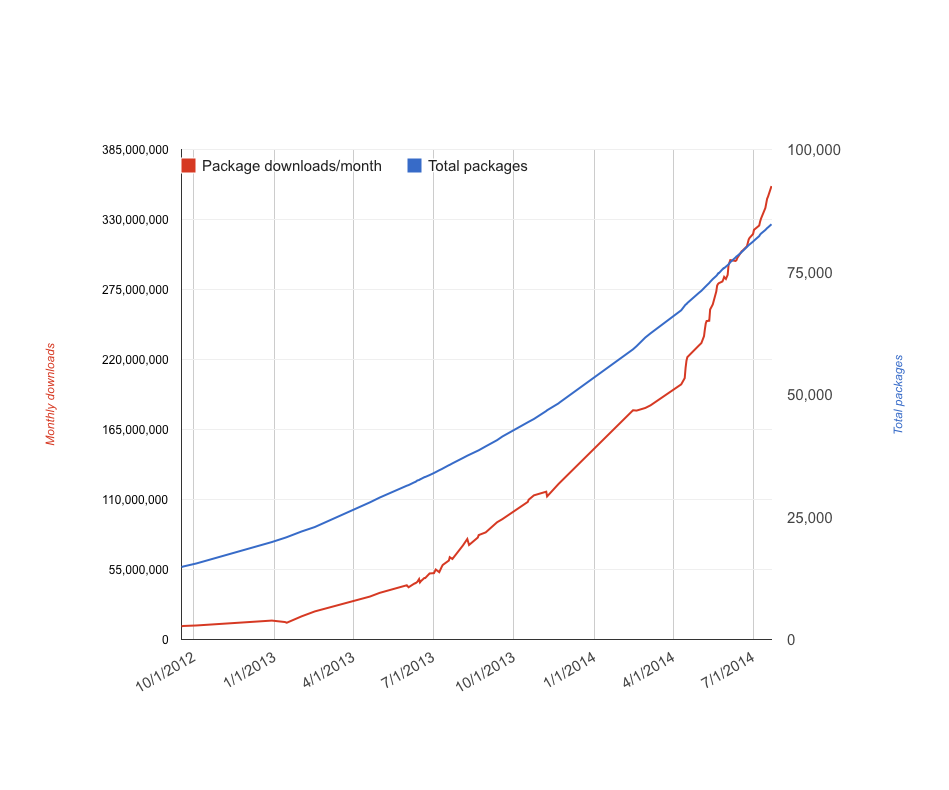
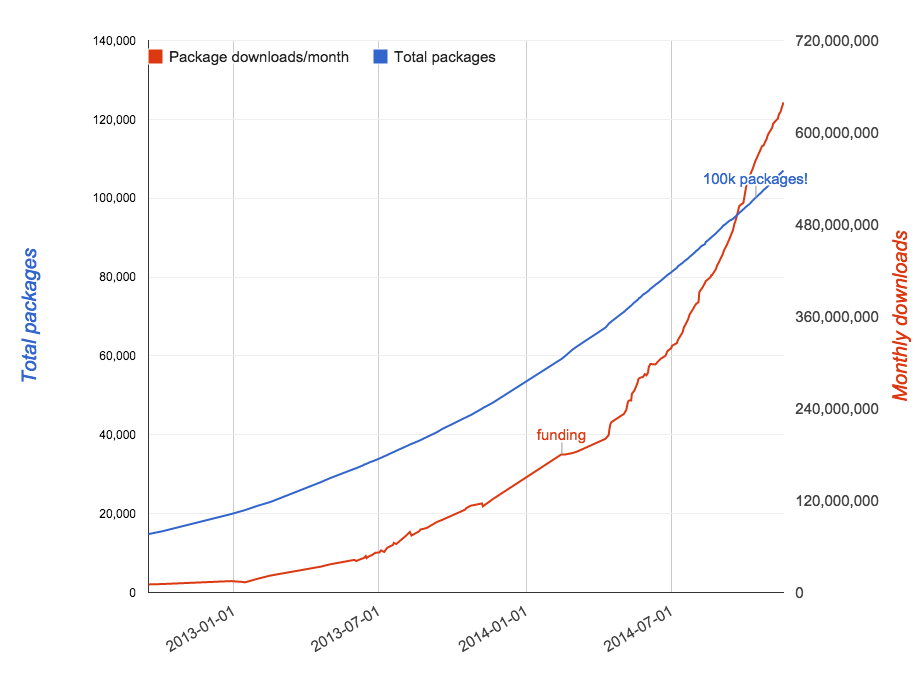
Current slide deck, probably talk-able.

diff --git a/scaling-registry.md b/scaling-registry.md
@@ -12,13 +12,15 @@
 
 ---
 
-Why scaling the registry matters to me.
-
----
-
 # [fit] What we did
 # [fit] lessons learned
 # [fit] generalizations
+
+---
+
+![](assets/I_enjoy_learning.png)
+
+^ Why scaling the registry matters to me. Everything we talk about here today depends on npm working.
 
 ---
 
@@ -30,6 +32,30 @@ Why scaling the registry matters to me.
 
 ---
 
+![fit](assets/npm_monthly_dls.png)
+
+^ What was the scaling challenge? Here's the chart of monthly downloads from 2013 on.
+
+---
+
+# [fit] January 2013
+# [fit] 20K packages
+# [fit] .5 million dls/day
+
+---
+
+# [fit] January 2014
+# [fit] 8 million dls/day
+# [fit] 60K packages
+
+---
+
+# [fit] Nov 2014
+# [fit] peak 28 million dls/day
+# [fit] > 100K packages
+
+---
+
 # [fit] side project
 # [fit] 100% couchdb
 # [fit] donated hosting
@@ -37,7 +63,7 @@ Why scaling the registry matters to me.
 
 ![15%, left](assets/npm-logo-white-trans.png)
 
-^ starting point: couch app with 100% of the code in couchdb views; 8000 lines of javascript; hosted by IrisCouch for free
+^ starting point: couch app with 100% of the code in couchdb views; 8000 lines of javascript; hosted by IrisCouch for free. couch exposed directly.
 
 ---
 
@@ -47,12 +73,11 @@ Why scaling the registry matters to me.
 
 ^ Benign neglect caught up. This is when Nodejitsu ran the "scale npm" fundraiser. Your money went to keeping it hosted at all during this time.
 
-
 ---
 
 # [fit] Put a cache on it
 
-^ Nov 2013 it stabilized because Fastly's CDN was put in front. We now cache aggressively. Geolocation makes it much faster for you all here in Europe-- mirrors aren't needed any more. Internet secret is that everything is fast because it's served from memory.
+^ Nov 2013 it stabilized Fastly's CDN. We now cache aggressively. Geolocation makes it much faster for you all here in Europe-- mirrors aren't needed any more.
 
 ---
 
@@ -63,19 +88,29 @@ Why scaling the registry matters to me.
 
 ---
 
-# ![inline](assets/npm.png) February 2014
+![fit](assets/arch_jan_2014.png)
 
-* company founded & funded
-* 100% hosted on Joyent
-* several couchdbs load-balanced by Fastly
-* hand-built CouchDB + Spidermonkey
-* automation by bash
-* Twitter tells us when we're down
+^ January 2014. This was more or less holding up under the load, though there were still outages with absolutely no visibility into why.
 
 ---
 
-# [fit] let's put out
-# [fit] the fires
+# [fit] ![inline](assets/npm.png) February 2014
+# [fit] company founded
+
+^ The problem was going to take money & dedicated engineering to solve.
+
+---
+
+# [fit] hosted on Joyent/SmartOS
+# [fit] hand-built CouchDB + Spidermonkey
+# [fit] bash scripts to deploy
+
+^ Everything was hand-built. 10 special snowflake servers.
+
+---
+
+# [fit] Twitter tells us
+# [fit] when we're down
 
 ^ This is when I arrive. PagerDuty account: first thing I did. Nagios all hooked up & monitoring basic host health. 10 hosts total.
 
@@ -88,30 +123,39 @@ Why scaling the registry matters to me.
 
 ---
 
-# [fit] Rearchitecture 2
+# [fit] General lesson #1
+# [fit] Add monitoring after
+# [fit] every outage
+
+^ What would have tipped you off that things were about to break?
+
+---
+
+# [fit] Re-architecture 2
 # [fit] Many couchdbs
 
 ^ Separate writes from reads. Separate out replication.
 
 ---
 
-# Stabilization stage 1
-## reactive
+## [fit] 1: reactive
+## [fit] monitor deeply
+## [fit] fix things quickly
 
-* monitor everything more deeply
-* methodically identify & monitor causes of outages
-* react quickly to fix problems
-* Twitter is no longer telling us when we're down
+^ Stabilization stage 1: react quickly.
 
 ---
 
-# Stabilization stage 2
-## proactive
+## [fit] 2: proactive
+## [fit] self-healing monitoring
+## [fit] \(also things don't break)
 
-* our second devops person: Ben Coe
-* recurring problems fixed in the apps
-* monitoring checks self-heal
-* redundancy everywhere
+---
+
+# [fit] General lesson #2
+# [fit] understand your db deeply
+
+^ The stabilization phase happened because we finally understood it. We became aware that networking flickers caused couchdb replication to break, and so we could tune the retries AND write a fall-back heal script.
 
 ---
 
@@ -144,26 +188,19 @@ Why scaling the registry matters to me.
 
 ---
 
-# [fit] public stack
-# [fit] Fastly CDN
+# [fit] Fastly: geoloc + cache
 # [fit] haproxy / CouchDB
 # [fit] nginx + a filesystem
 
 ---
 
 # [fit] behind the scenes
-# [fit] ansible
-# [fit] nagios
-# [fit] InfluxDB + Grafana
+# [fit] ansible / nagios
+# [fit] InfluxDB+Grafana
 
 ---
 
-# [fit] General lesson #1
-# [fit] Understand your app
-
----
-
-# [fit] General lesson #2
+# [fit] General lesson #3
 # [fit] metrics
 
 ^ Talk about what they are
@@ -178,14 +215,18 @@ Why scaling the registry matters to me.
 ## [fit] request latency
 ## [fit] event counts
 
-^ Process restarts
+---
+
+# [fit] Metrics for everything.
+
+^ Process restarts; bytes in & out of load balancers. We saved $20K on our networking bandwidth bill by monitoring what our haproxies were doing & choking off a healthcheck gone mad.
 
 ---
 
 # [fit] metrics ==
 # [fit] visibility
 
-^ What is your system doing? What does it look like on a normal day? What are its trends? We saved $20K on our networking bandwidth bill by monitoring what our haproxies were doing & choking off a healthcheck gone mad.
+^ What is your system doing? What does it look like on a normal day? What are its trends?
 
 ---
 
@@ -196,7 +237,7 @@ Why scaling the registry matters to me.
 
 ---
 
-# [fit] General lesson #3
+# [fit] General lesson #4
 # [fit] automate
 
 ---
@@ -204,13 +245,40 @@ Why scaling the registry matters to me.
 # [fit] no special snowflakes
 # [fit] every instance can be replaced
 
-^ Do this. All hosts are configurable remotely & can be replaced easily.
-
-
----
-
-# [fit] Next steps
+^ Do this. All hosts are configurable remotely & can be replaced easily. Discipline. AWS reboot apocalypse was boring for us.
 
 ---
 
-# [fit]
+# [fit] General lesson #5
+# [fit] the goal is to be
+# [fit] BORING
+
+^ Being on-call should be boring. Heroics should NEVER be required. Putting out fires is a bad thing: avoid the fires in the first place.
+
+---
+
+# [fit] if operations are
+# [fit] boring
+# [fit] you can do the dev
+
+^ replicate into relational dbs, improve searchability, add features: private modules. All of this is work that's possible now that our daily operations are boring.
+
+---
+
+# [fit] Goal: to be the most boring
+# [fit] part of your node experience
+
+^ Reliable. Something you don't think about because we're always there.
+
+----
+
+# [fit] npm client <3
+# [fit] `npm install -g npm@latest`
+
+^ So many bug fixes & performance improvements.
+
+---
+
+# [fit] npm loves you
+
+^ thanks.
